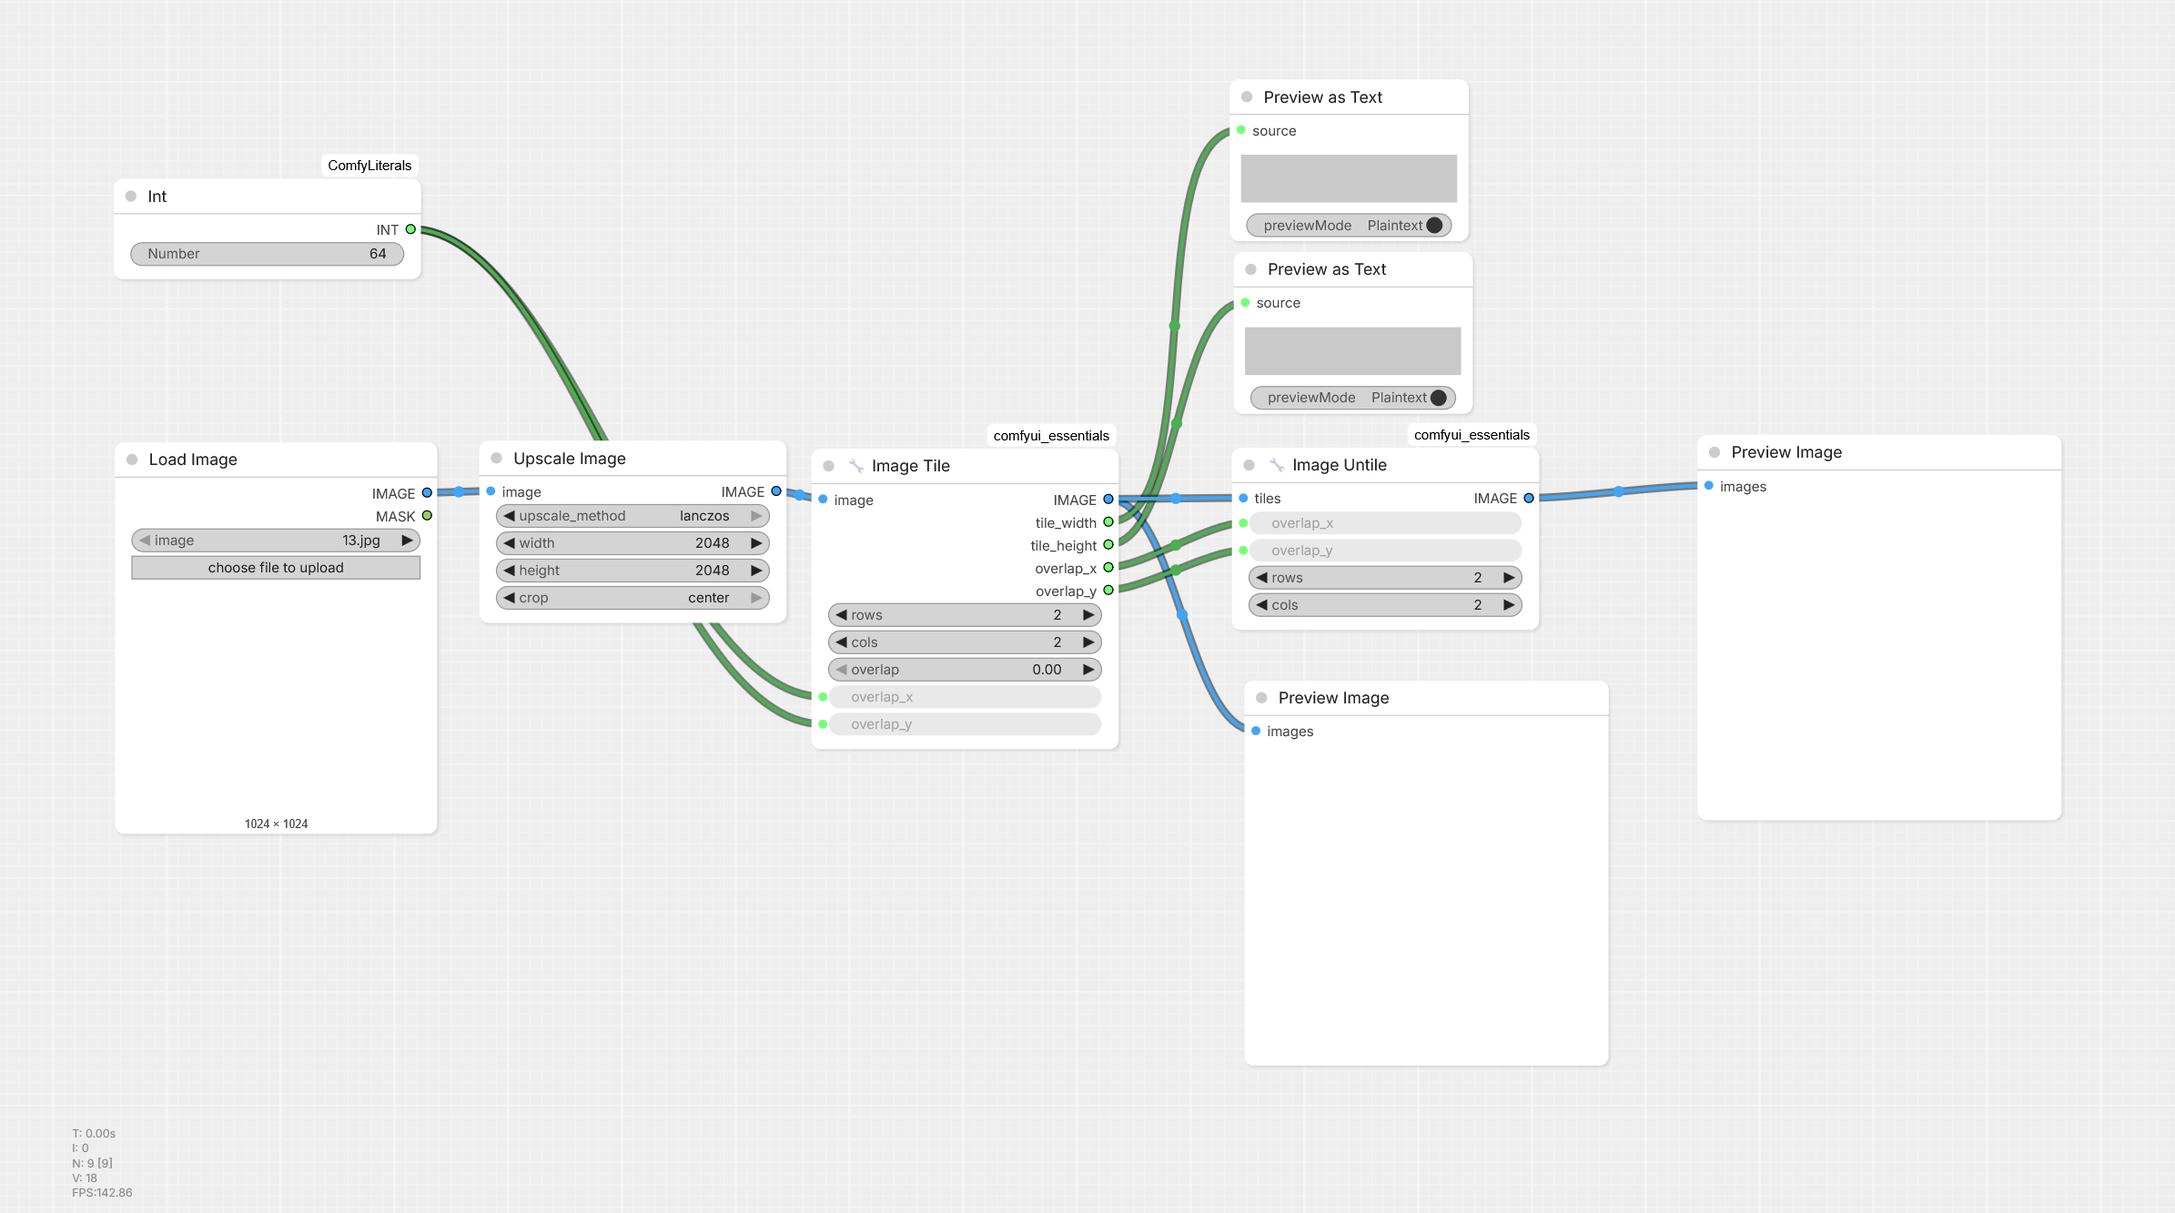
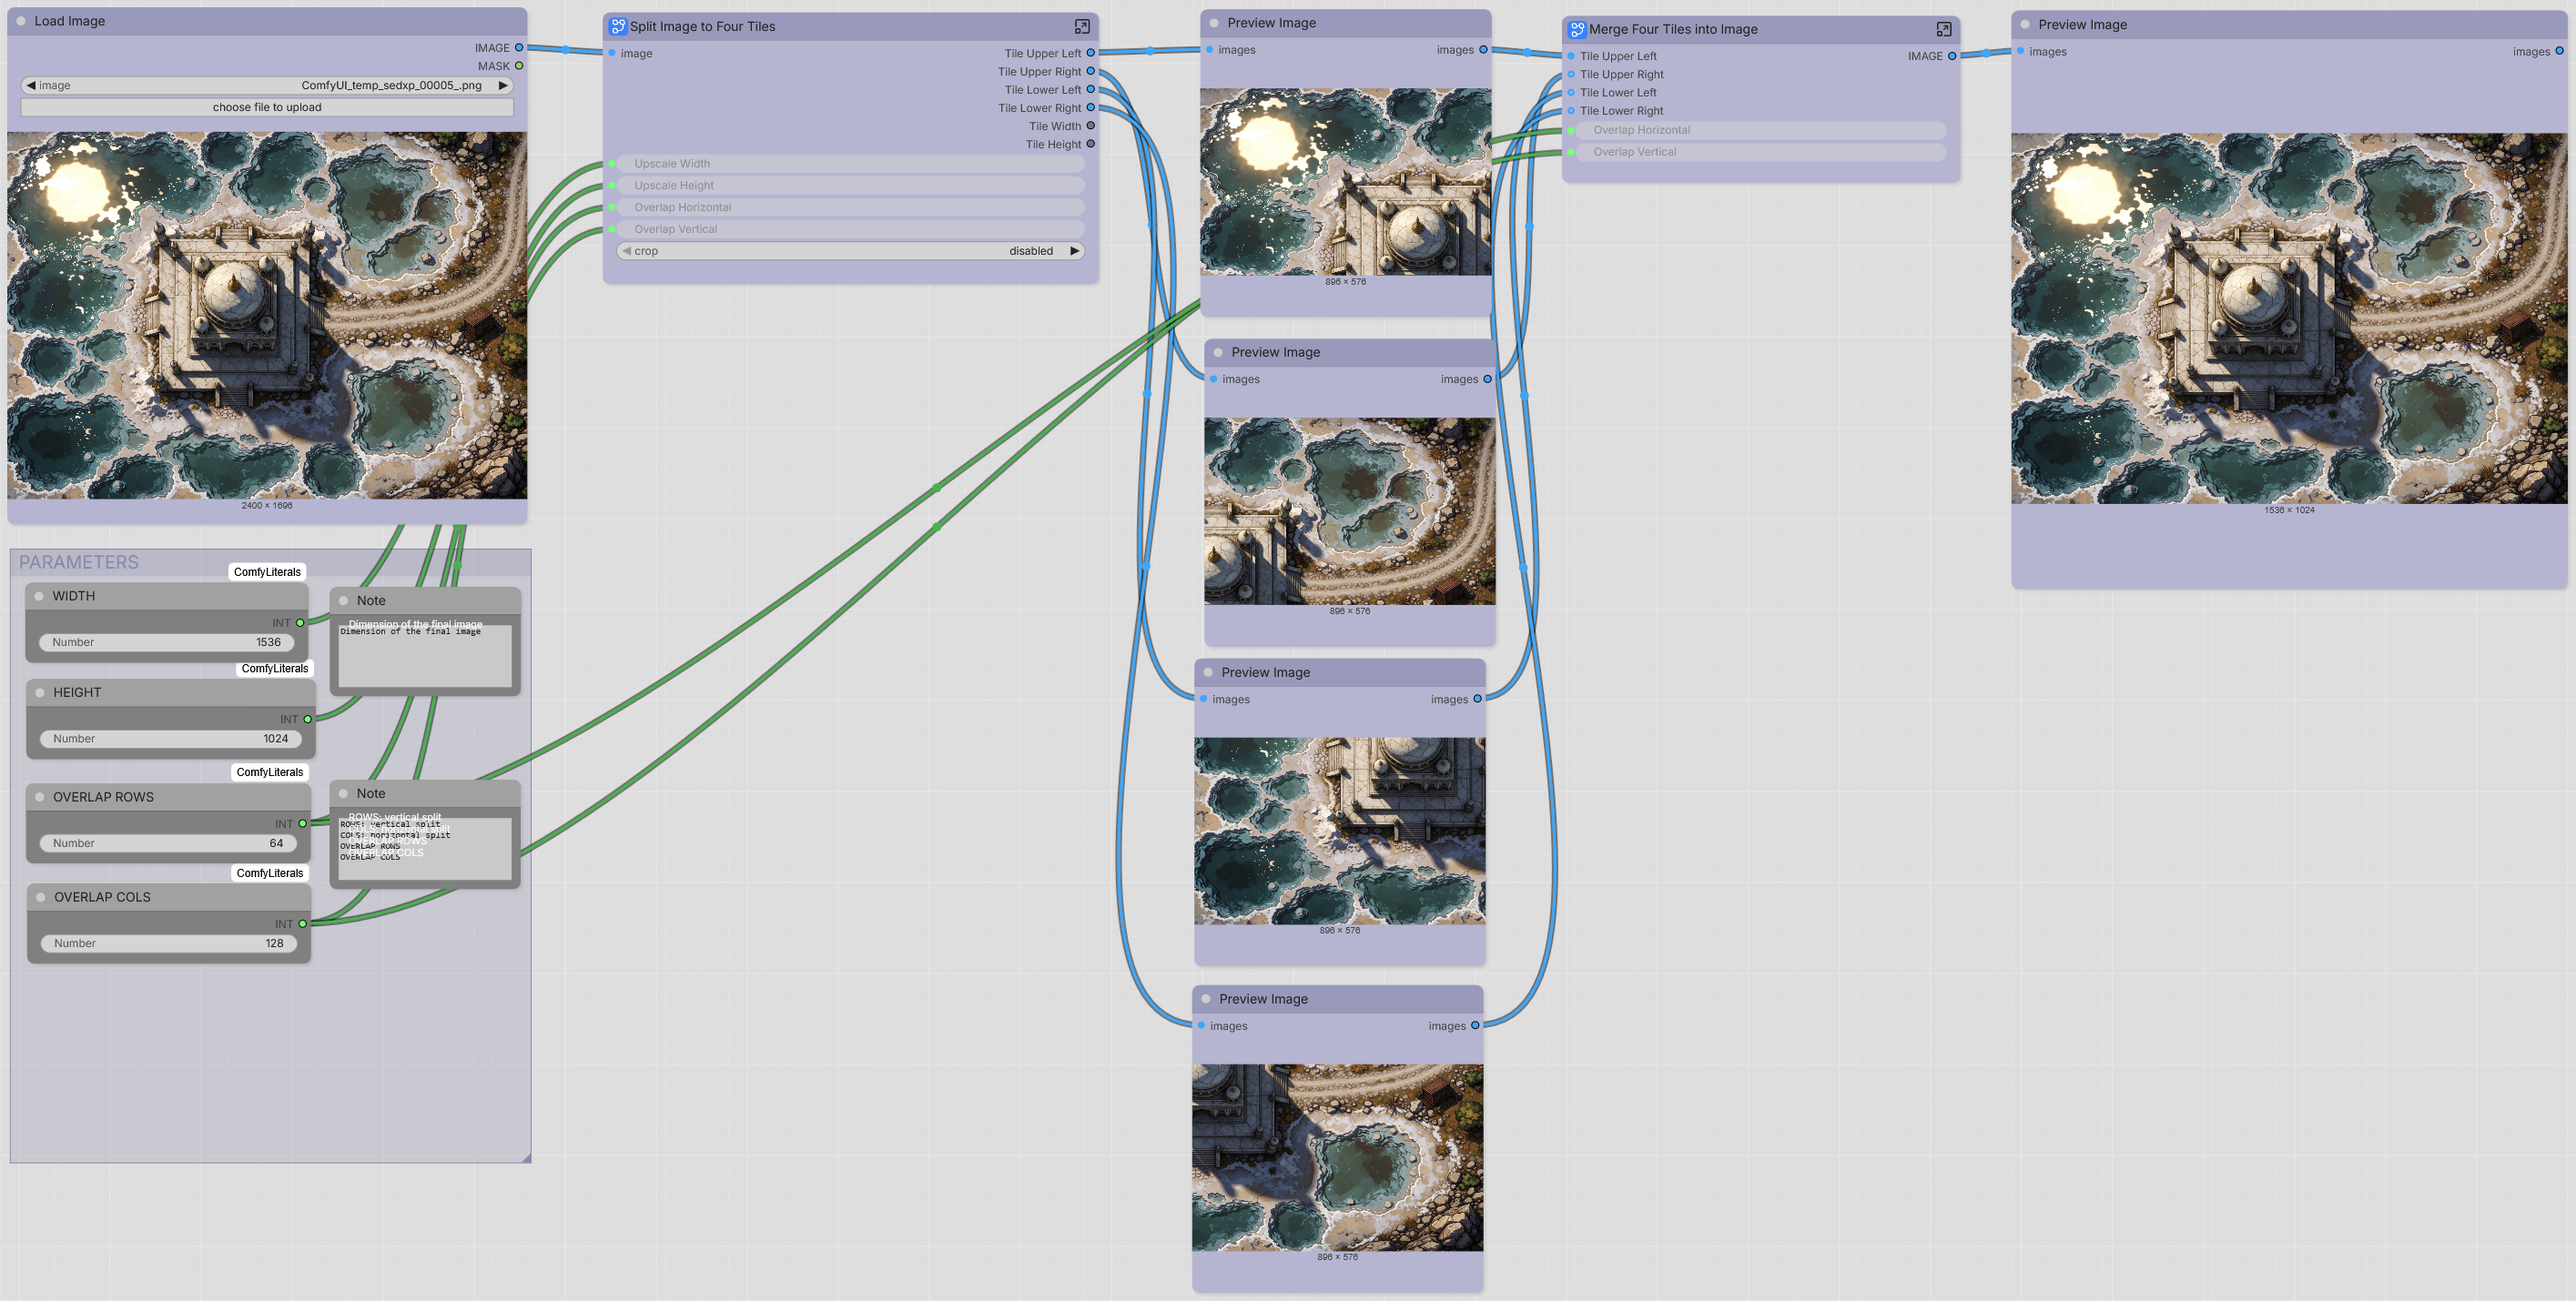
upload tile untile workflow

diff --git a/README.md b/README.md
@@ -211,6 +211,12 @@ It's a small model native to ComfyUI now, doesn't need third party packages
 
 ![](/workflow-png/Remove-Background-IMG2IMG.png)
 
+## Tiling and Untiling
+
+It's a workflow to upscale and split an image in four tiles and remerge the tiles. It's meant to allow diffusion models to do diffusion upscale.
+
+![](/workflow-png/img2img-tile-untile.png)
+
 
 ## Zimage
 
